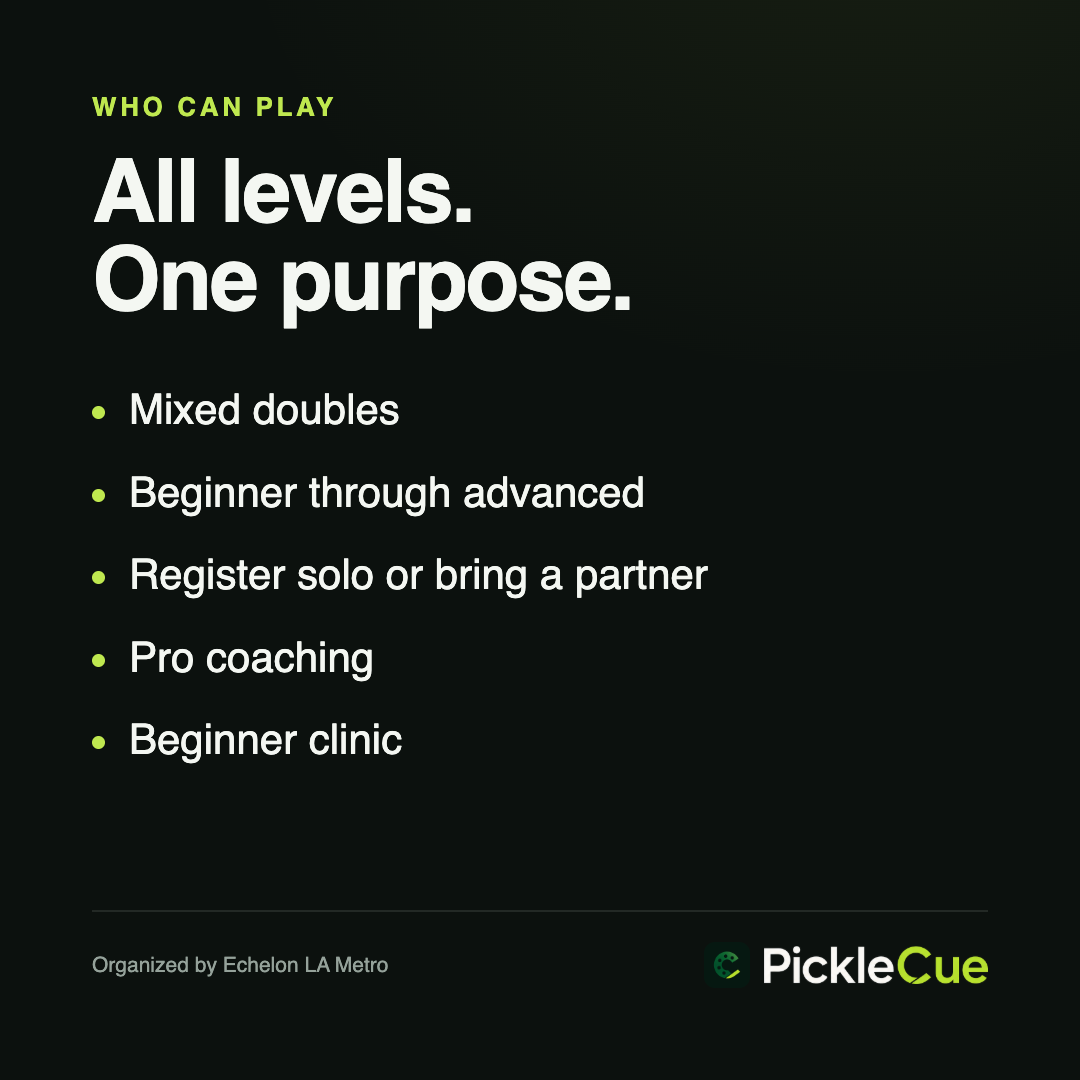
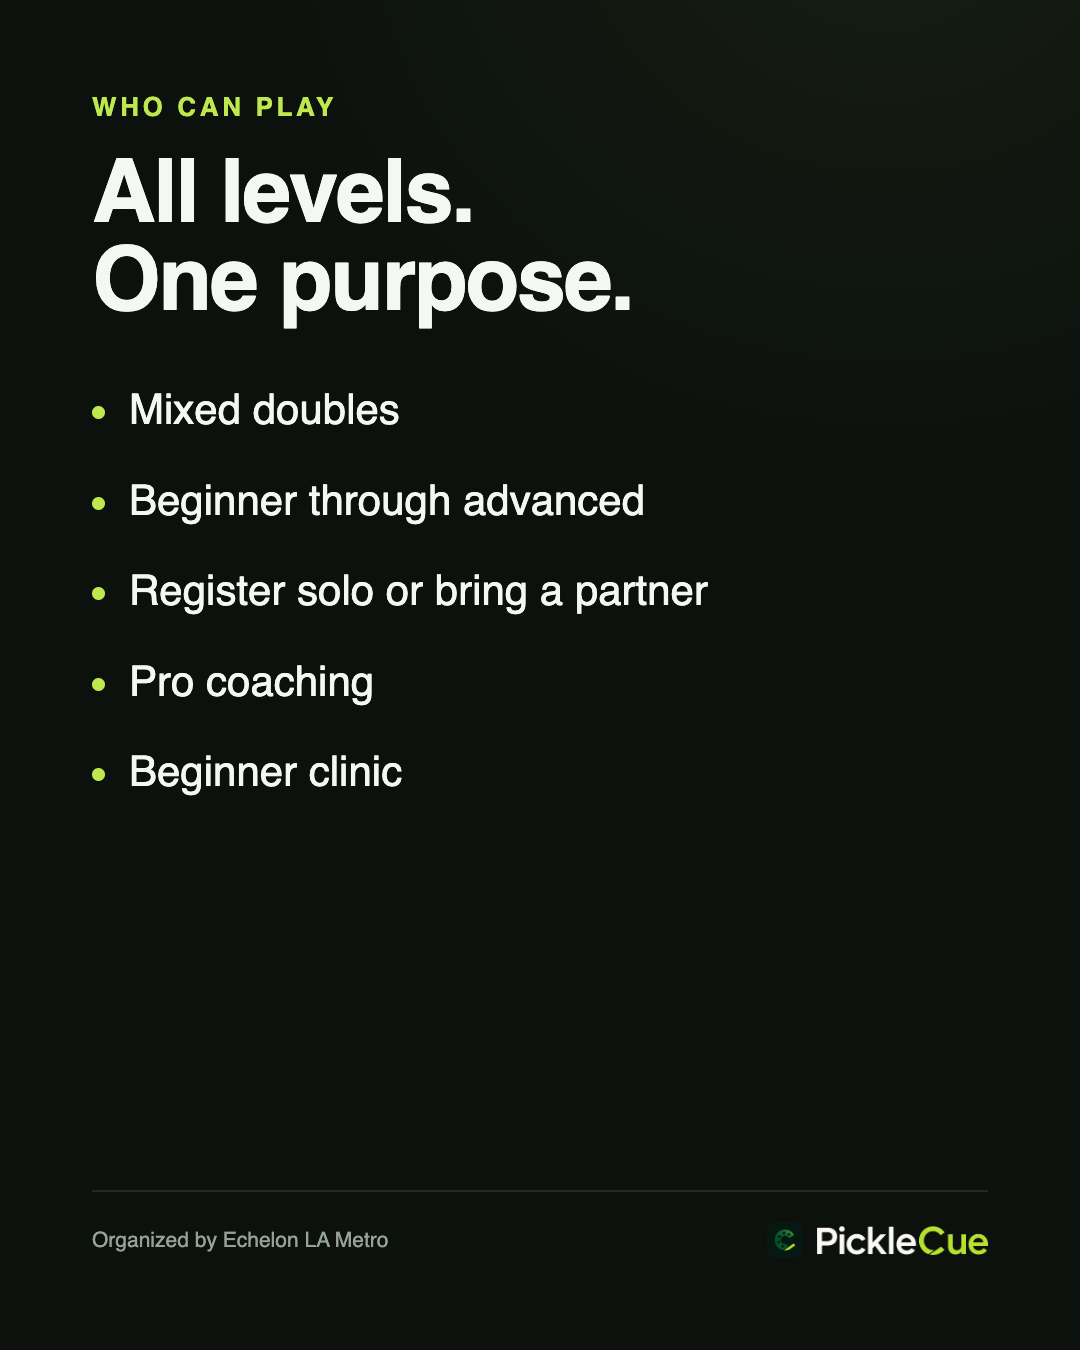
polish(social): approved wording on story hero, 4:5 feed export, smaller lockup
Final pre-approval corrections per Andrew:
- story 1 pill now carries the approved relationship wording ("Community
  event supported by PickleCue"); a small lime REGISTRATION OPEN kicker
  sits above the title instead
- feed carousel re-exported at 1080x1350 (4:5) - a separate set from the
  1080x1920 stories, so the feed never crops the story artwork; exporter
  dimension gate updated
- PickleCue lockup reduced (~25%) and consistent across all eight frames;
  "Organized by Echelon LA Metro" stays on every frame - hierarchy reads
  event / organizer / supporter
- website proceeds line: "Proceeds from the event support Salvation Army
  LA Metro programs serving local communities."
- caption replaced with Andrew's final version (handle inline in the
  opening sentence, "No partner? No problem." line, approved wording as
  the closing line, trimmed hashtag set)
- run sheet: feed uploads use the 4:5 files, never the story files

npm test 11 x 14 green.

Claude-Session: https://claude.ai/code/session_01JuJm5QPz6Jzfm4ie273nTF

diff --git a/poster-p4p.html b/poster-p4p.html
@@ -9,7 +9,7 @@
   <style>
     /* ------------------------------------------------------------------
        INTERNAL TOOL — not linked from the site, noindex.
-       Renders four 1080x1080 Instagram slides in the CAMPAIGN design
+       Renders four 1080x1350 (4:5 feed) Instagram slides in the CAMPAIGN design
        language (dark forest canvas, lime accent, Instrument Sans) —
        matching the event page. Export: `npm run export:carousel`.
 
@@ -29,12 +29,12 @@
     .toolbar h1{font-weight:650;font-size:1.2rem;margin:0 16px 0 0}
     .hint{font-size:12px;color:#8A9097;letter-spacing:.02em}
     .sheet{display:flex;flex-wrap:wrap;gap:26px}
-    .slot{display:flex;flex-direction:column;gap:10px;width:454px;height:475px}
+    .slot{display:flex;flex-direction:column;gap:10px;width:454px;height:590px}
     .slot > .cap{font-size:12px;letter-spacing:.06em;color:#8A9097}
 
     /* Slides authored at exactly 1080x1080, scaled for preview only. */
     .slide{
-      width:1080px;height:1080px;flex:none;position:relative;overflow:hidden;
+      width:1080px;height:1350px;flex:none;position:relative;overflow:hidden;
       background:
         radial-gradient(110% 80% at 82% -8%, rgba(191,232,79,0.06), transparent 55%),
         var(--bg);
@@ -53,9 +53,9 @@
     .foot{border-top:2px solid var(--rule);padding-top:30px;font-size:21px;font-weight:500;color:var(--mute);display:flex;justify-content:space-between;align-items:center;gap:20px}
     .foot .org{white-space:nowrap}
     .brandrow{display:flex;align-items:center;gap:14px;white-space:nowrap}
-    .brandrow img{height:38px;width:auto;display:block}
-    .brandrow img.mark{height:46px;width:46px;border-radius:11px}
-    ul.list{list-style:none;padding:0;margin:0;display:flex;flex-direction:column;gap:30px}
+    .brandrow img{height:29px;width:auto;display:block}
+    .brandrow img.mark{height:36px;width:36px;border-radius:9px}
+    ul.list{list-style:none;padding:0;margin:0;display:flex;flex-direction:column;gap:38px}
     ul.list li{font-size:42px;font-weight:500;line-height:1.25;color:var(--ink);display:flex;gap:24px;align-items:baseline}
     ul.list li::before{content:"";width:13px;height:13px;flex:none;border-radius:50%;background:var(--lime);transform:translateY(-5px)}
     .note{font-size:28px;color:var(--soft);line-height:1.5;max-width:34ch}
@@ -81,7 +81,7 @@
 <body>
   <div class="toolbar">
     <h1>Pickle for a Purpose — carousel</h1>
-    <span class="hint">1080 × 1080 · campaign design · no third-party logos &nbsp;—&nbsp; export with <code style="color:#EDE9DF">npm run export:carousel</code></span>
+    <span class="hint">1080 × 1350 (4:5 feed) · campaign design · no third-party logos &nbsp;—&nbsp; export with <code style="color:#EDE9DF">npm run export:carousel</code></span>
   </div>
 
   <div class="sheet" id="sheet">

diff --git a/poster-p4p-stories.html b/poster-p4p-stories.html
@@ -44,8 +44,8 @@
     .foot{border-top:2px solid var(--rule);padding-top:34px;font-size:23px;font-weight:500;color:var(--mute);display:flex;justify-content:space-between;align-items:center;gap:20px}
     .foot .org{white-space:nowrap}
     .brandrow{display:flex;align-items:center;gap:14px;white-space:nowrap}
-    .brandrow img{height:40px;width:auto;display:block}
-    .brandrow img.mark{height:48px;width:48px;border-radius:12px}
+    .brandrow img{height:30px;width:auto;display:block}
+    .brandrow img.mark{height:38px;width:38px;border-radius:9px}
     ul.list{list-style:none;padding:0;margin:0;display:flex;flex-direction:column;gap:36px}
     ul.list li{font-size:48px;font-weight:500;line-height:1.25;color:var(--ink);display:flex;gap:26px;align-items:baseline}
     ul.list li::before{content:"";width:15px;height:15px;flex:none;border-radius:50%;background:var(--lime);transform:translateY(-5px)}
@@ -78,8 +78,9 @@
         <img class="bg" src="images/p4p-hero-golden.jpg" alt="">
         <div class="scrim"></div>
         <div class="content">
-          <span class="badge">Registration is open</span>
+          <span class="badge">Community event supported by PickleCue</span>
           <div class="spacer"></div>
+          <div class="kick" style="margin-bottom:26px">Registration open</div>
           <h2 class="disp t-hero">Pickle for<br>a Purpose</h2>
           <p class="meta" style="margin:40px 0 0">
             Saturday, August 29, 2026 &middot; 5&ndash;8&nbsp;PM<br>

diff --git a/events/pickle-for-a-purpose/index.html b/events/pickle-for-a-purpose/index.html
@@ -406,7 +406,7 @@
       <p class="limited" style="margin-top:16px">Early-bird pricing is available for a limited time.</p>
       <p class="proceeds">
         <svg viewBox="0 0 24 24" aria-hidden="true"><path d="M12 20.5S4 15.3 4 9.9A4.4 4.4 0 0 1 8.4 5.5c1.5 0 2.9.8 3.6 2a4.2 4.2 0 0 1 3.6-2A4.4 4.4 0 0 1 20 9.9c0 5.4-8 10.6-8 10.6Z"/></svg>
-        Proceeds support Salvation Army LA Metro programs.
+        Proceeds from the event support Salvation Army LA Metro programs serving local communities.
       </p>
       <p class="disclaimer">PickleCue is supporting this event through community promotion. The event is organized by Echelon&nbsp;LA&nbsp;Metro, which handles registration, payment, operations, policies, and attendance.</p>
     </section>
